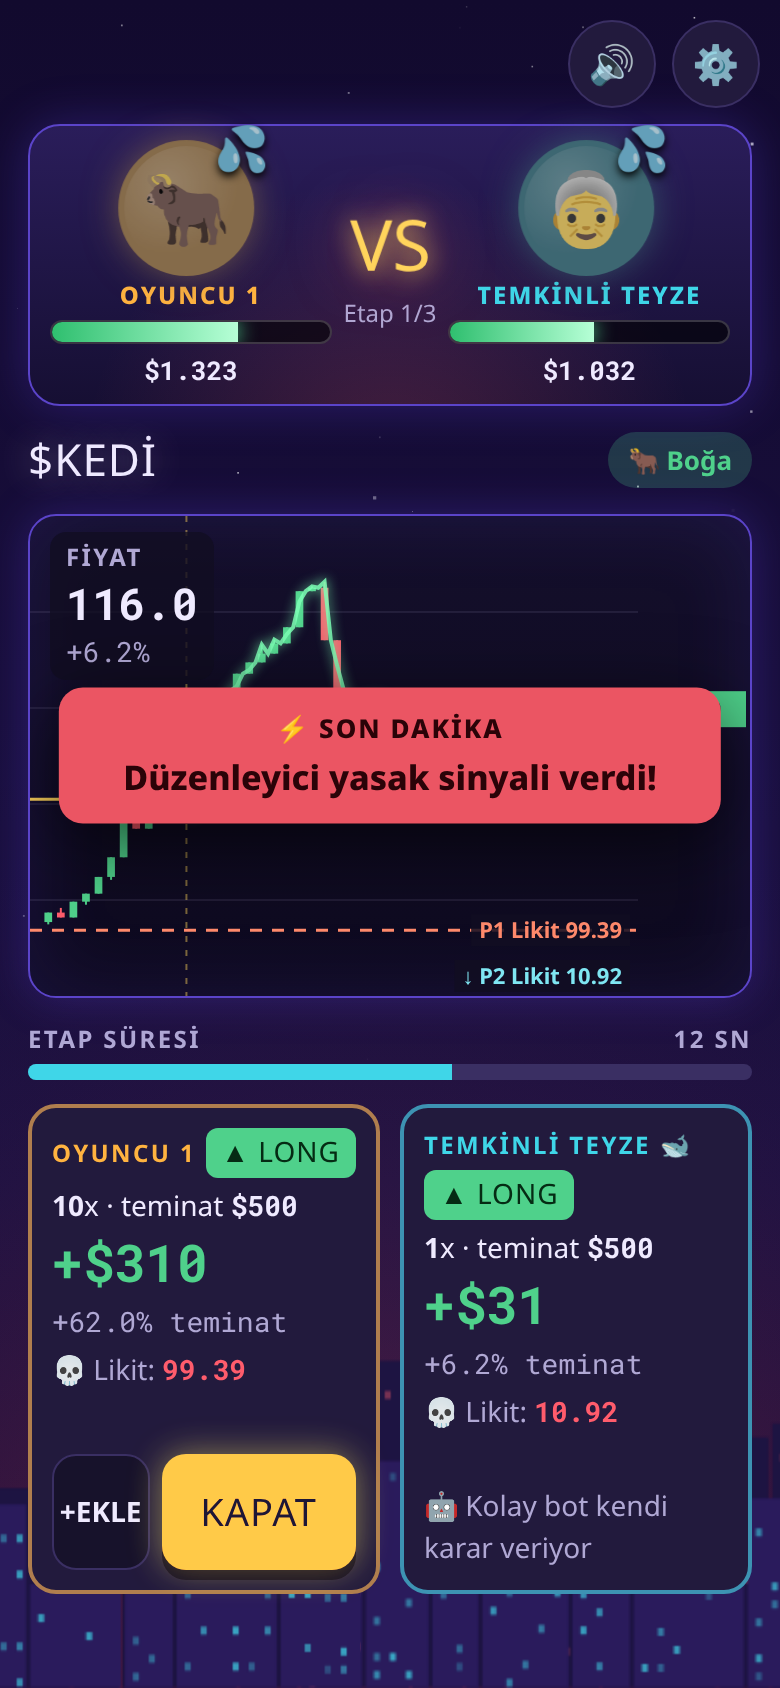
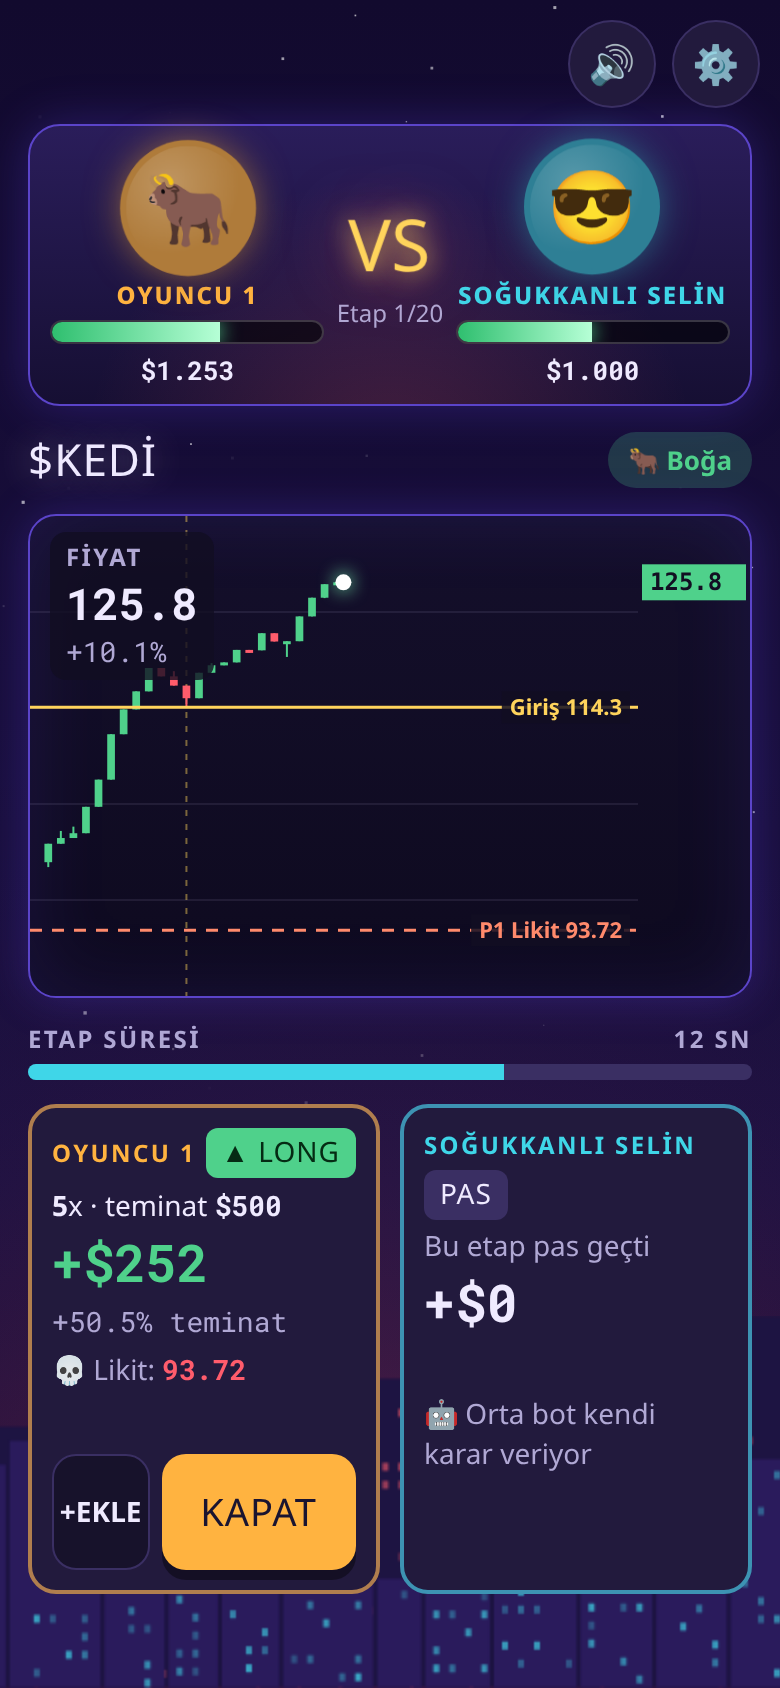
v2.2.1: fiyat izi kaldırıldı, mum 260ms

diff --git a/index.html b/index.html
@@ -530,7 +530,7 @@ const ACH={
 function unlock(id){if(P.ach[id])return;P.ach[id]=Date.now();ST.save();toastQ.push(`${ACH[id].ic} Başarım açıldı: <b>${ACH[id].n}</b>`);}
 function flushAch(){if(!toastQ.length)return;const m=toastQ.splice(0).join('<br>');setTimeout(()=>{toast(m,3200);AU.sfx('ach');},700);}
 const LEVS=[1,3,5,10,25,50], STAKES=[25,50,100], TPS=[0,50,100,200], SLS=[0,30,60];
-const HIST=24, FUT=70, TICK_MS=300, STREAK_BONUS=150, DAILY_N=10;
+const HIST=24, FUT=70, TICK_MS=260, STREAK_BONUS=150, DAILY_N=10;
 
 let R=Math.random;
 function mulberry(a){return()=>{a|=0;a=a+0x6D2B79F5|0;let t=Math.imul(a^a>>>15,1|a);t=t+Math.imul(t^t>>>7,61|t)^t;return((t^t>>>14)>>>0)/4294967296}}
@@ -846,9 +846,7 @@ function draw(cv,p,upto,opt={}){
   const y1=Y(Math.max(o,cl)),y2=Y(Math.min(o,cl));c.fillRect(x-cw/2,y1,cw,Math.max(1.5,y2-y1));
  }
  c.globalAlpha=1;
- if(upto>1){const tc=opt.entry!=null?(p[upto-1]>=p[opt.entry]?'#7dffb5':'#ff8a96'):'#c9b8ff';c.save();c.strokeStyle=tc;c.lineWidth=2;c.shadowColor=tc;c.shadowBlur=12;c.globalAlpha=.85;c.beginPath();
-  const s0=Math.max(0,opt.entry!=null?opt.entry:0);c.moveTo(X(s0),Y(p[s0]));for(let i=s0+1;i<upto;i++)c.lineTo(X(i),Y(p[i]));c.stroke();
-  c.globalAlpha=1;c.fillStyle='#fff';c.shadowBlur=18;c.beginPath();c.arc(X(upto-1),Y(p[upto-1]),4,0,7);c.fill();c.restore();}
+ if(upto>1){const tc=opt.entry!=null?(p[upto-1]>=p[opt.entry]?'#7dffb5':'#ff8a96'):'#c9b8ff';c.save();c.strokeStyle=tc;c.lineWidth=2;c.shadowColor=tc;c.shadowBlur=12;c.fillStyle='#fff';c.shadowBlur=18;c.beginPath();c.arc(X(upto-1),Y(p[upto-1]),4,0,7);c.fill();c.restore();}
  (opt.lines||[]).forEach(l=>hline(l.v,l.col,l.lab,l.dash));
  if(opt.entry!=null)hline(p[opt.entry],'#ffd45c','Giriş',false);
  // son fiyat etiketi

diff --git a/sw.js b/sw.js
@@ -1,5 +1,5 @@
 // Çevrimdışı önbellek. Yeni sürüm yayınlarken VERSION'ı artır.
-const VERSION='ba-v2.2.0';
+const VERSION='ba-v2.2.1';
 const FILES=['./','./index.html','./manifest.json','./icons/icon-192.png','./icons/icon-512.png','./icons/maskable-512.png'];
 self.addEventListener('install',e=>{e.waitUntil(caches.open(VERSION).then(c=>c.addAll(FILES)).then(()=>self.skipWaiting()));});
 self.addEventListener('activate',e=>{e.waitUntil(caches.keys().then(ks=>Promise.all(ks.filter(k=>k!==VERSION).map(k=>caches.delete(k)))).then(()=>self.clients.claim()));});
